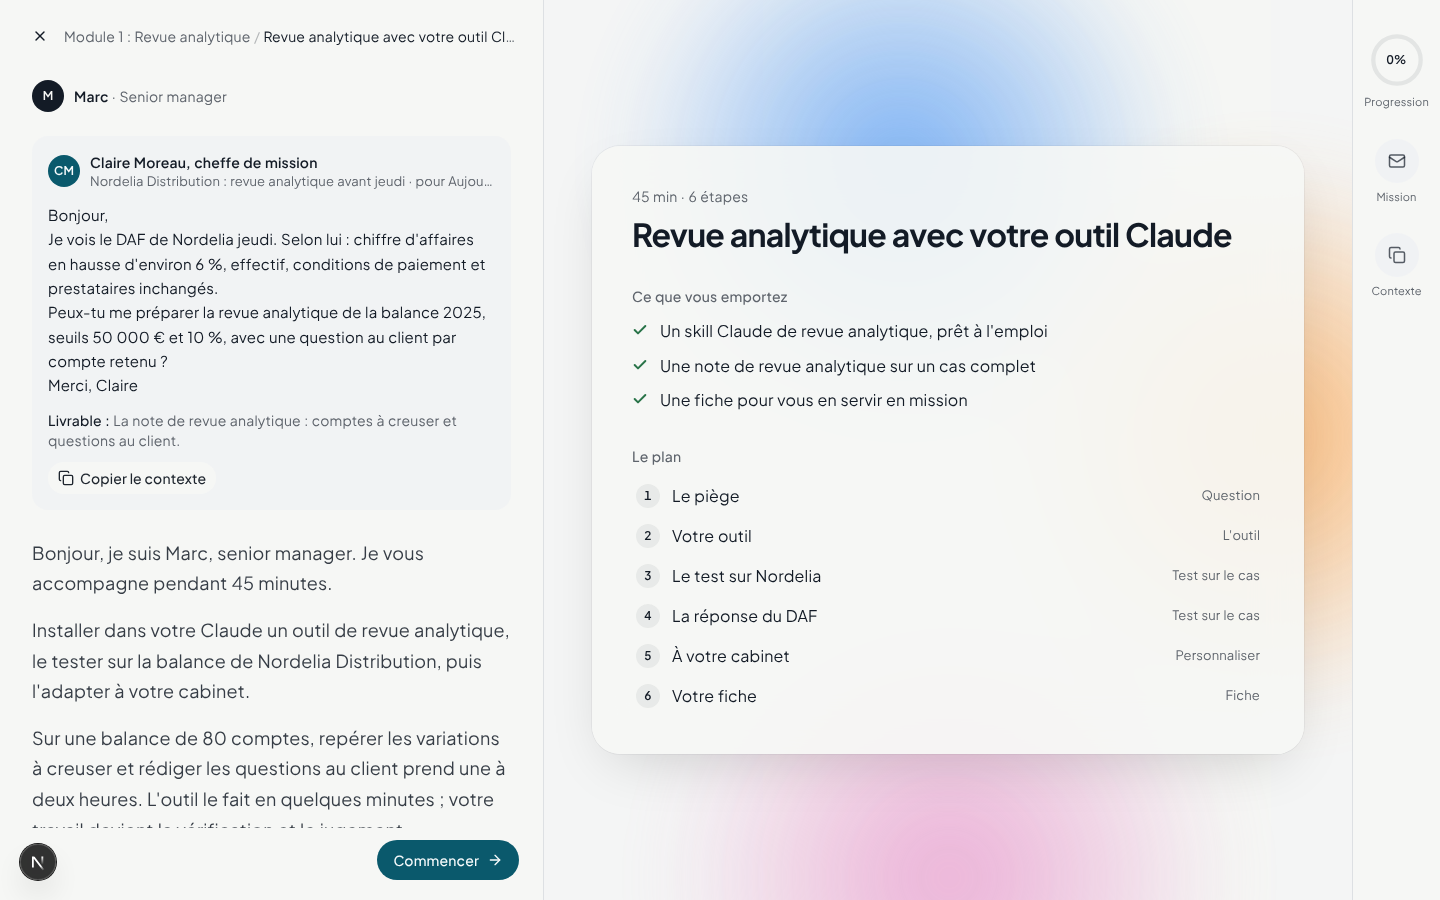
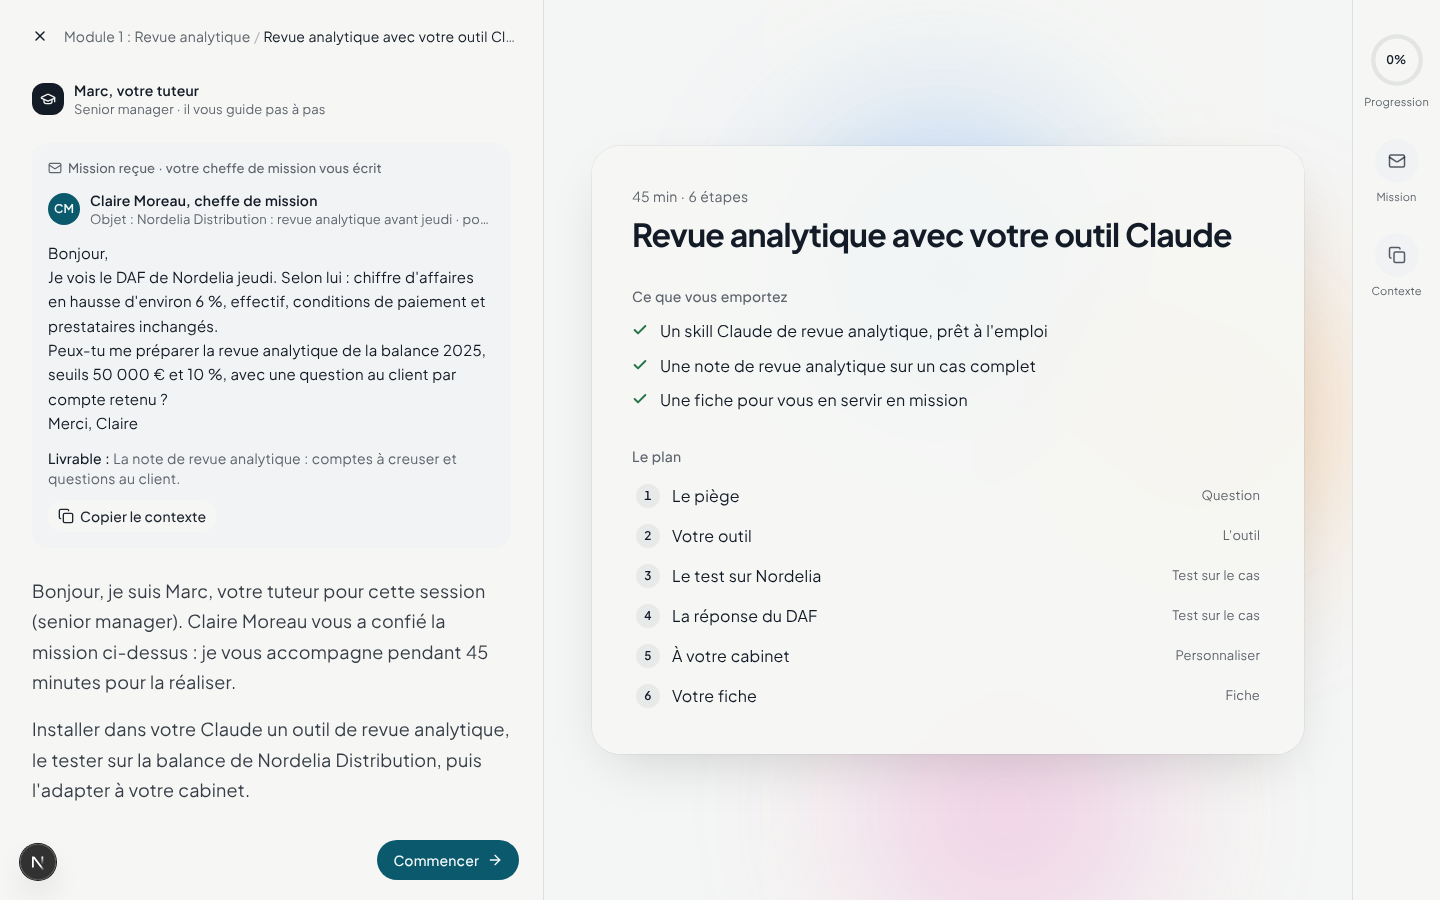
Format atelier : tuteur et cheffe de mission clairement distingués
Le tuteur se présente comme « votre tuteur » (avatar à part, rôle en second plan) ; la mission
s'affiche comme un message reçu de la cheffe de mission.

Claude-Session: https://claude.ai/code/session_01GNVQuP7uw4osCsa3gCRz7b

diff --git a/src/components/atelier/atelier-player.tsx b/src/components/atelier/atelier-player.tsx
@@ -3,7 +3,7 @@
 import * as React from "react";
 import Link from "next/link";
 import { AnimatePresence, motion, useReducedMotion } from "motion/react";
-import { ArrowLeftIcon, ArrowRightIcon, CheckIcon, ChevronDownIcon, CopyIcon, LaptopIcon, MailIcon, XIcon } from "lucide-react";
+import { ArrowLeftIcon, ArrowRightIcon, CheckIcon, ChevronDownIcon, CopyIcon, GraduationCapIcon, LaptopIcon, MailIcon, XIcon } from "lucide-react";
 import { toast } from "sonner";
 import { Button } from "@/components/ui/button";
 import { Sheet, SheetContent, SheetDescription, SheetHeader, SheetTitle } from "@/components/ui/sheet";
@@ -87,12 +87,15 @@ function MissionMessage({ session, compact = false }: { session: AtelierSession;
   const m = session.mission;
   return (
     <div className="space-y-3 rounded-2xl bg-muted/60 p-4">
+      <p className="flex items-center gap-1.5 text-caption font-medium text-muted-foreground">
+        <MailIcon className="size-3.5" aria-hidden /> Mission reçue · votre cheffe de mission vous écrit
+      </p>
       <div className="flex items-center gap-2.5">
         <span className="grid size-8 shrink-0 place-items-center rounded-full bg-primary text-xs font-semibold text-primary-foreground">{initials(m.expediteur)}</span>
         <div className="min-w-0">
           <p className="truncate text-sm font-semibold">{m.expediteur}</p>
           <p className="truncate text-caption text-muted-foreground">
-            {m.objet} · pour {m.echeance}
+            Objet : {m.objet} · pour {m.echeance}
           </p>
         </div>
       </div>
@@ -462,10 +465,12 @@ export function AtelierPlayer({
 
           <div ref={thread} className="min-h-0 flex-1 overflow-y-auto px-8 pt-4 pb-8">
             <div className="flex items-center gap-2.5 pb-6">
-              <span className="grid size-8 place-items-center rounded-full bg-foreground text-xs font-semibold text-background">{initials(session.tuteur.nom)}</span>
-              <span className="text-sm">
-                <span className="font-semibold">{session.tuteur.nom}</span>
-                <span className="text-muted-foreground"> · {session.tuteur.role}</span>
+              <span className="grid size-8 place-items-center rounded-xl bg-foreground text-background" aria-hidden>
+                <GraduationCapIcon className="size-4" />
+              </span>
+              <span className="leading-tight">
+                <span className="block text-sm font-semibold">{session.tuteur.nom}, votre tuteur</span>
+                <span className="block text-caption text-muted-foreground">{session.tuteur.role} · il vous guide pas à pas</span>
               </span>
             </div>
             <AnimatePresence mode="wait" initial={false}>
@@ -484,7 +489,7 @@ export function AtelierPlayer({
                     <Appear delay={0.15}>
                       <TutorSays>
                         <p>
-                          Bonjour, je suis {session.tuteur.nom}, {session.tuteur.role.toLowerCase()}. Je vous accompagne pendant {session.duree_min} minutes.
+                          Bonjour, je suis {session.tuteur.nom}, votre tuteur pour cette session ({session.tuteur.role.toLowerCase()}). {session.mission.expediteur.split(",")[0]} vous a confié la mission ci-dessus : je vous accompagne pendant {session.duree_min} minutes pour la réaliser.
                         </p>
                         <p>
                           <Rich text={session.accueil.ce_que_vous_allez_faire} />
